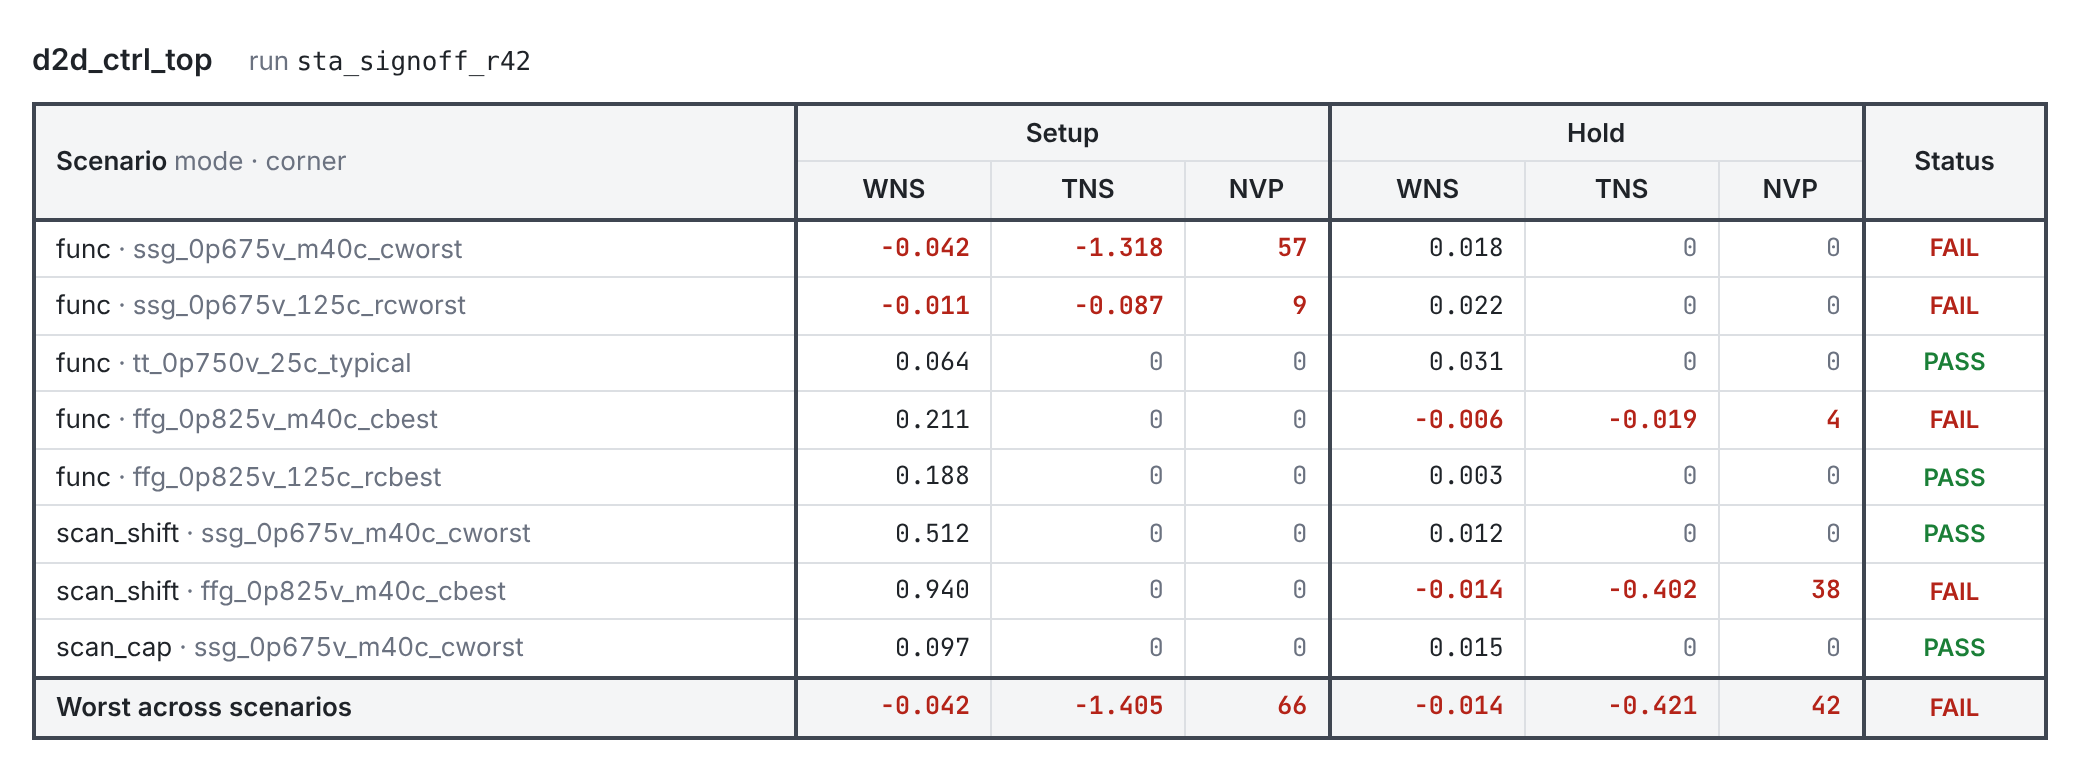
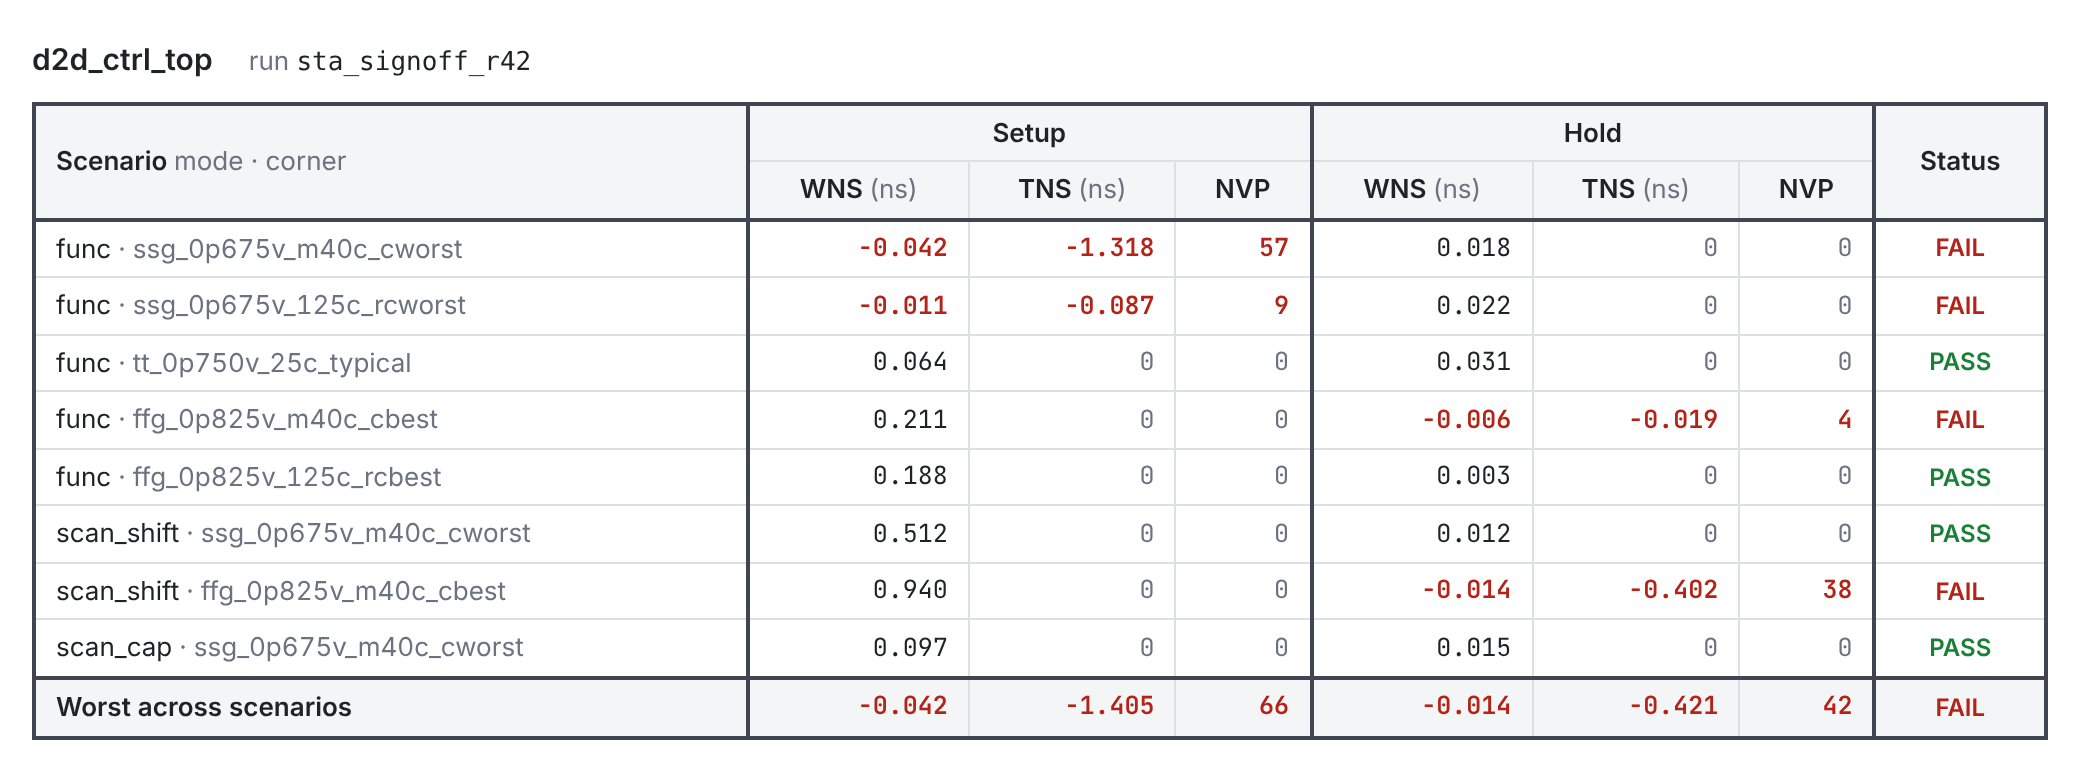
STA summary: show (ns) unit in WNS/TNS headers
Claude-Session: https://claude.ai/code/session_015j4tcepD1zSYAfbtxNHfeF

diff --git a/docs/design/sta_summary_example.html b/docs/design/sta_summary_example.html
@@ -41,6 +41,7 @@
        font-variant-numeric: tabular-nums; }
   td.sc, th.sc { text-align: left; font-family: Inter, system-ui, sans-serif; font-size: 13px; }
   td.sc .m { color: var(--ink-muted); }
+  th .u { font-weight: 400; color: var(--ink-muted); }
   .neg { color: var(--fail); font-weight: 600; }
   .zero { color: var(--ink-muted); }
   td.st { text-align: center; font-family: Inter, system-ui, sans-serif; font-weight: 600; font-size: 12px; }
@@ -66,8 +67,8 @@
         <th class="grp" rowspan="2">Status</th>
       </tr>
       <tr>
-        <th class="grp">WNS</th><th>TNS</th><th>NVP</th>
-        <th class="grp">WNS</th><th>TNS</th><th>NVP</th>
+        <th class="grp">WNS <span class="u">(ns)</span></th><th>TNS <span class="u">(ns)</span></th><th>NVP</th>
+        <th class="grp">WNS <span class="u">(ns)</span></th><th>TNS <span class="u">(ns)</span></th><th>NVP</th>
       </tr>
     </thead>
     <tbody>

diff --git a/docs/design/sta_summary_theme.md b/docs/design/sta_summary_theme.md
@@ -8,14 +8,15 @@ Reference render: `sta_summary_example.html` / `sta_summary_example.png`.
 ## 1. Content rules
 
 - **One line of context, no page header or footer.** Design name (bold) and run tag only.
-  No netlist name, scenario count, units, logos, generation timestamps, banners, or "generated by".
+  No netlist name, scenario count, logos, generation timestamps, banners, or "generated by".
 - **One table.** One row per scenario (`mode · corner`). Last row = **worst across scenarios**.
 - Columns, grouped:
   - Scenario
   - **Setup:** WNS · TNS · NVP
   - **Hold:** WNS · TNS · NVP
   - Status
-- Slack in ns (the flow's native unit); not labelled on the page or repeated in cells.
+- Slack in ns. Unit shown once in the WNS and TNS headers as `(ns)`, weight 400, `--ink-muted`;
+  never repeated in cells.
 - Row order: as in the scenario list of the run. Do not sort by severity; reviewers know the
   order and look for a scenario by position.
 - Worst row: WNS = min over scenarios; TNS and NVP = sum over scenarios.
